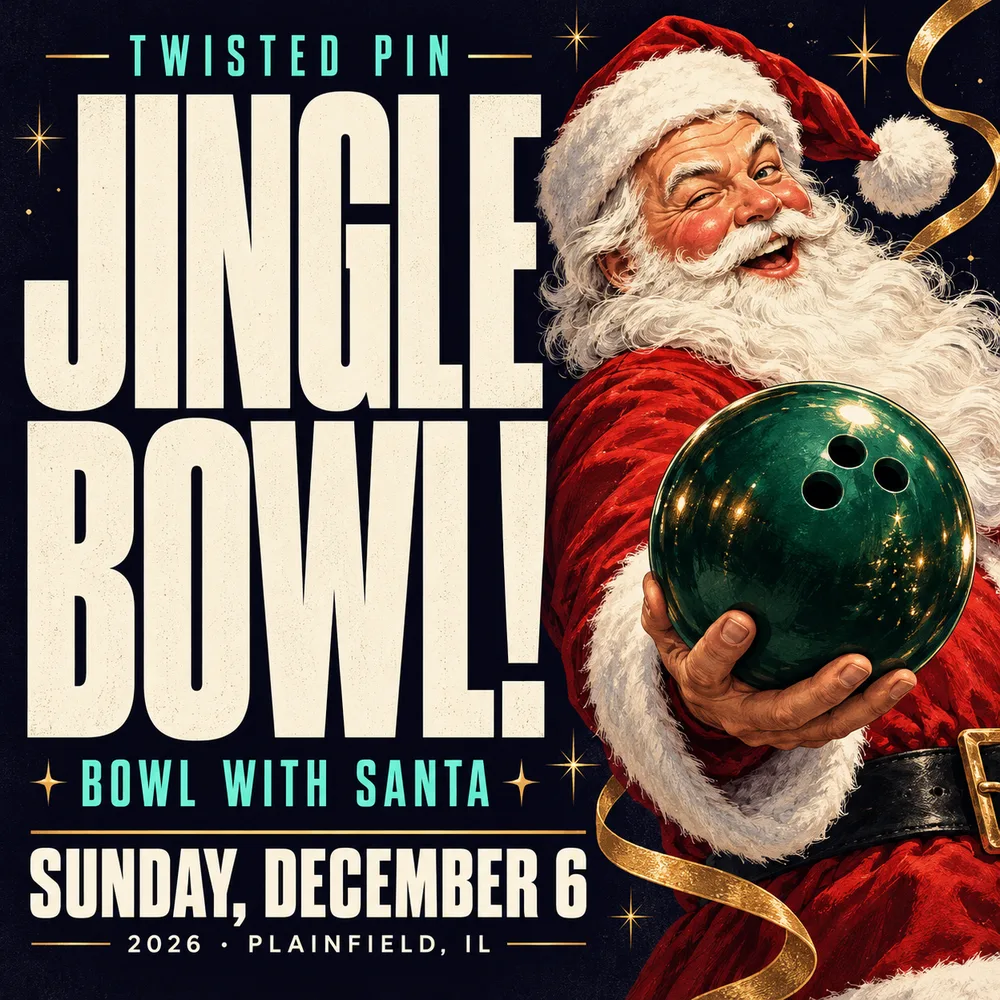
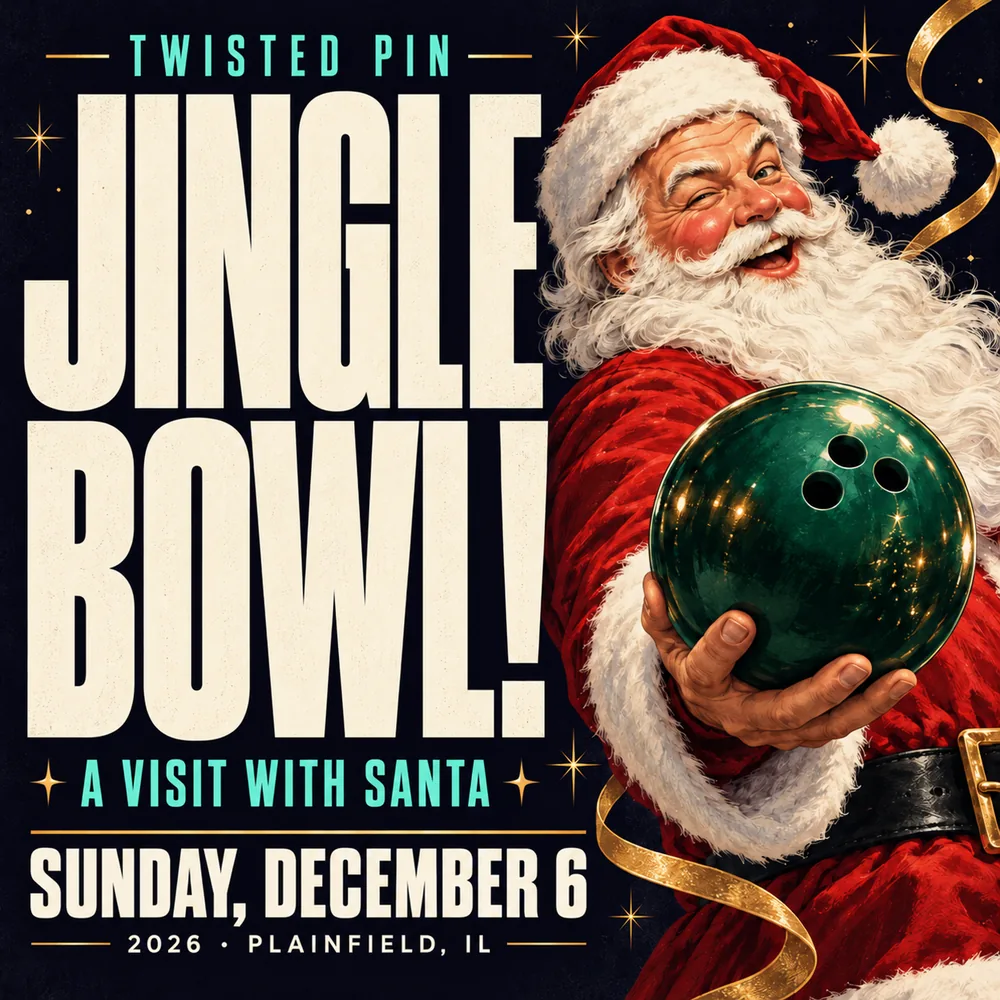
Clarify Jingle Santa visit and show guest package inclusions

diff --git a/Context/jingle-bowl-2026/README.md b/Context/jingle-bowl-2026/README.md
@@ -1,10 +1,10 @@
-# Jingle Bowl campaign review
+# Jingle Bowl campaign review
 
 This Website worktree contains the event landing page, three homepage visual treatments, a calendar review and an isolated booking-date handoff demo. Jon authorized a live review protected by his chosen password on October 21, 2026. The intended event URL is `/jingle-bowl/`.
 
 ## Review routes
 
-- `/jingle-bowl/` — event-page design with approved lane prices, reservation times and closing information; final taxes/fees and VIP appetizer remain under review.
+- `/jingle-bowl/` — event-page design with approved lane prices, package inclusions, reservation times and closing information; production checkout/tax verification remains pending.
 - `/jingle-bowl-concepts/` — homepage options, downloadable art, booking-date demo, approved 39-reservation session table.
 - `/review/jingle-calendar/?month=2026-12` — actual calendar renderer with the draft event included.
 
@@ -12,13 +12,24 @@ The ordinary Upcoming Events calendar excludes the draft. These paths are noinde
 
 ## Artwork preservation
 
-`public/jingle-bowl/jingle-square.png` is the original square campaign master (1254 × 1254). `Context/jingle-bowl-2026/artwork/jingle-wide-master.png` and `santa-entrance-master.png` preserve the generated landscape and transparent character originals. `artwork/prompts.json` records exact prompts and the built-in image-generation method. All are intended for Git, not ignored media caches. Source files under Context are not public downloads.
+Jon approved replacing the artwork's "Bowl with Santa" wording on October22.
+Current square and wide masters are `artwork/jingle-square-santa-visit-master.png`
+and `artwork/jingle-wide-santa-visit-master.png`. The built-in image_gen edits replace
+only the supporting line with "A VISIT WITH SANTA". Exact prompts and provenance
+are in `artwork/text-revision-20261022.json`. Earlier square artwork remains in Git
+history; the original wide and transparent Santa masters and `artwork/prompts.json`
+remain as historical source. All masters are Git-tracked, not ignored cache files.
 
-`public/jingle-bowl/jingle-wide.png` is the 1200 × 630 export. Square/wide WebP files and the 420px transparent Santa are lightweight website derivatives. The page images total approximately 170 KB square, 132 KB wide and 44 KB Santa; PNG downloads are intentionally larger. Compression/resizing uses Sharp; regenerate from masters rather than screenshots. No rejected September 8 design kit was used.
+`public/jingle-bowl/jingle-square.png` is the1254px download, and `jingle-wide.png`
+is the1200×630 export. Current WebP derivatives are1000px square (127,324 bytes)
+and1200×630 wide (118,522 bytes); the existing420px transparent Santa is unchanged.
+Regenerate compression/resizing with `node scripts/build-jingle-campaign-assets.mjs`.
+Visual text edits used the built-in image tool; Sharp only exports the derivatives.
+No rejected September8 design kit was used.
 
 ## Operating assumptions
 
-Confirmed Sunday, December 6, 2026; only Jingle Bowl reservations all day. The approved 39-reservation schedule contains 29 Traditional and 10 VIP reservations over five 90-minute starts, with a 30-minute per-start booking cutoff when space remains. Base lane prices are $149.95 Traditional and $189.95 VIP. Jingle Bowl activities end at 5:15pm; the venue closes and all guests depart by 5:30pm. Arrive on time, clear the booked lane/seats/belongings at the reserved end, and use the arcade or an available waiting area afterward only until 5:30pm. Opening/staffed and Santa visit times remain unconfirmed; no early entry is implied. Jon approved immediate sales opening without announcement, but production catalog/tax/fee verification and booking readiness remain separate gates. The VIP appetizer, cancellation terms and final proof remain pending. Google Closed must not block event reservations; Roy's guest link stays withheld until actual booking readiness is verified. See the resumed rehearsal handoff for current implementation evidence.
+Confirmed Sunday, December 6, 2026; only Jingle Bowl reservations all day. The approved 39-reservation schedule contains 29 Traditional and 10 VIP reservations over five 90-minute starts, with a 30-minute per-start booking cutoff when space remains. Base lane prices are $149.95 Traditional and $189.95 VIP. Jingle Bowl activities end at 5:15pm; the venue closes and all guests depart by 5:30pm. Arrive on time, clear the booked lane/seats/belongings at the reserved end, and use the arcade or an available waiting area afterward only until 5:30pm. Opening/staffed and Santa visit times remain unconfirmed; no early entry is implied. Jon approved immediate sales opening without announcement, but production catalog/tax/fee verification and booking readiness remain separate gates. VIP includes one basket of fries per lane; ordinary72-hour cancellation and the10% fee are approved. Final production quote verification and Shanna proof remain pending. Google Closed must not block event reservations; Roy's guest link stays withheld until actual booking readiness is verified. See the resumed rehearsal handoff for current implementation evidence.
 
 TPRS implementation needs all-channel event-day exclusivity and aggregate per-start quotas alongside shared physical pools, cart/payment ownership and turnover. Current NYE infrastructure is reusable, but event-specific reports/messages/forms need deliberate Jingle work.
 
@@ -30,4 +41,4 @@ Local 390px and 1440px headless browser review checks landing layout, fonts/asse
 
 Use the existing repository Node version and install dependencies normally. `npm run dev -- --host 127.0.0.1 --port 4396` starts Astro. The two dedicated server environment variables are JINGLE_REVIEW_PASSWORD and JINGLE_REVIEW_SESSION_SECRET. Keep them out of source control. The local dependency junction is a workstation convenience, not part of the source project.
 
-Launch removal requires a coordinated change: remove password protection and preview-only copy, finalize TPRS and offers/schema, publish the calendar entry, add selected homepage/nav/promo placements, restore public indexing/sitemap/tracking, update the legacy event redirect, and verify the live guest flow. Do not simply remove the password while proposal copy remains.
+Launch removal requires a coordinated change: finalize checkout links and TPRS/Offer schema, remove password protection, publish the calendar entry, add selected homepage/nav/promo placements, restore public indexing/sitemap/tracking, update the legacy event redirect, and verify the live guest flow. Do not simply remove the password while proposal copy remains.

diff --git a/Context/session-handoffs/2026-10-21-jingle-resumed-rehearsal.md b/Context/session-handoffs/2026-10-21-jingle-resumed-rehearsal.md
@@ -285,3 +285,28 @@ the NYE owner's docs-onlycf2352ea release evidence. Runtime/CI files are unchang
 from the already reviewed local156f3010 tree. No backend Jingle release or
 production identity registration occurred. This evidence follow-up is saved on
 the Website feature branch; production remains the exact1a508912 source above.
+# October22 morning: guest copy and Santa wording
+
+Jon approved replacing "Bowl with Santa" with a separate Santa visit and listing
+the90-minute/shoes/pizza/pitcher inclusions beneath each lane type, plus fries for
+VIP. He then requested the landing look like the final customer page behind the
+existing password. The page now uses "Santa's coming. Let's roll." and
+"Bowling, pizza & a visit with Santa." Review banners, implementation notes and
+concept links are removed. Exact Santa hours are not invented. Current package
+actions use functional section anchors; the production checkout connection still
+requires its separate verification, and no simulated sale is presented as live.
+
+Square and wide campaign images replace the baked-in line with "A VISIT WITH
+SANTA" using the built-in image_gen tool. Revised masters and exact prompts are
+tracked under Context/jingle-bowl-2026/artwork; scripts/build-jingle-campaign-assets.mjs
+reproduces PNG/WebP exports. WebP square is127,324 bytes, wide118,522 bytes. Earlier
+artwork remains preserved in Git/source. No rejected generated brand guide used.
+
+Draft calendar copy uses the approved first start1:45pm through activities ending
+5:15pm, with5:30pm departure in the description; draft remains true. Shared public
+readiness, NYE campaign, auth, middleware, checkout and backend source are unchanged.
+Local checks at320/390/1280 pass, including headline fit, per-lane inclusions,
+no internal review language, working section anchors, artwork hashes and no
+horizontal overflow/browser errors. The page footer now provides the existing
+Find Us navigation anchor. Seventeen auth and seven native middleware checks pass;
+full production build/prebuild passes. Live source/verification follows below.

diff --git a/Context/history/2026-website-decisions.md b/Context/history/2026-website-decisions.md
@@ -1,3 +1,23 @@
+## 2026-10-22 - Jingle Santa wording and lane inclusions
+
+Jon approved removing "Bowl with Santa" because guests bowl and visit Santa
+separately. The event headline becomes "Santa's coming. Let's roll."; description,
+metadata, draft calendar title and campaign artwork say "a visit with Santa."
+Both lane cards explicitly list90 minutes of bowling, shoe rental, one pizza and
+one pitcher of soda per lane. VIP adds one basket of fries. No four-shoe accounting
+allocation is presented as a guest entitlement limit. Pitcher refills are excluded.
+Keep the approved Christmas design, prices, password and public-readiness gates.
+This slice contains no backend, checkout, homepage campaign or event activation.
+Source, artwork and mobile/desktop release proof are recorded in the Jingle handoff.
+
+Jon then requested the preview look like the final customer page, with only the
+password retained. Removed the review banner, implementation notes, pending-time
+language and concept links from the landing page. Use approved facts and the
+coordinated Santa visit; do not invent exact Santa/staffed hours. Package buttons
+use real section anchors while checkout verification remains pending, rather than
+linking guests to a404 or simulating a production purchase. Public readiness,
+password, noindex and draft event status are unchanged.
+
 ## 2026-10-22 - Protected Jingle fries and reservation terms released
 
 Website main `0b923164176482a16d4a487a02735781f5b5510e` deployed successfully

diff --git a/src/content/events/2026-12-06-jingle-bowl.md b/src/content/events/2026-12-06-jingle-bowl.md
@@ -1,8 +1,8 @@
 ---
-title: Jingle Bowl! Bowl with Santa
-# Internal sort anchor only. No event start/finish times are approved.
-start: 2026-12-06T00:00:00-06:00
-dateOnly: true
+title: Jingle Bowl! Bowling & a Visit with Santa
+# First bowling start through the confirmed end of event activities.
+start: 2026-12-06T13:45:00-06:00
+end: 2026-12-06T17:15:00-06:00
 draft: true
 location: Twisted Pin · Plainfield, IL
 image: /jingle-bowl/jingle-wide.webp
@@ -11,4 +11,4 @@ cta:
   href: /jingle-bowl/
 ---
 
-Santa is coming to Twisted Pin on Sunday, December 6. Jingle Bowl reservations only that day, with no regular lane reservations before or afterward. Times, packages and booking details are coming soon.
+Bowling, pizza and a visit with Santa. Each lane includes 90 minutes of bowling, shoe rental, one large pizza and one pitcher of soda; VIP lanes also include one basket of fries. Jingle Bowl reservations only on December 6, with all guests departing by 5:30pm.
